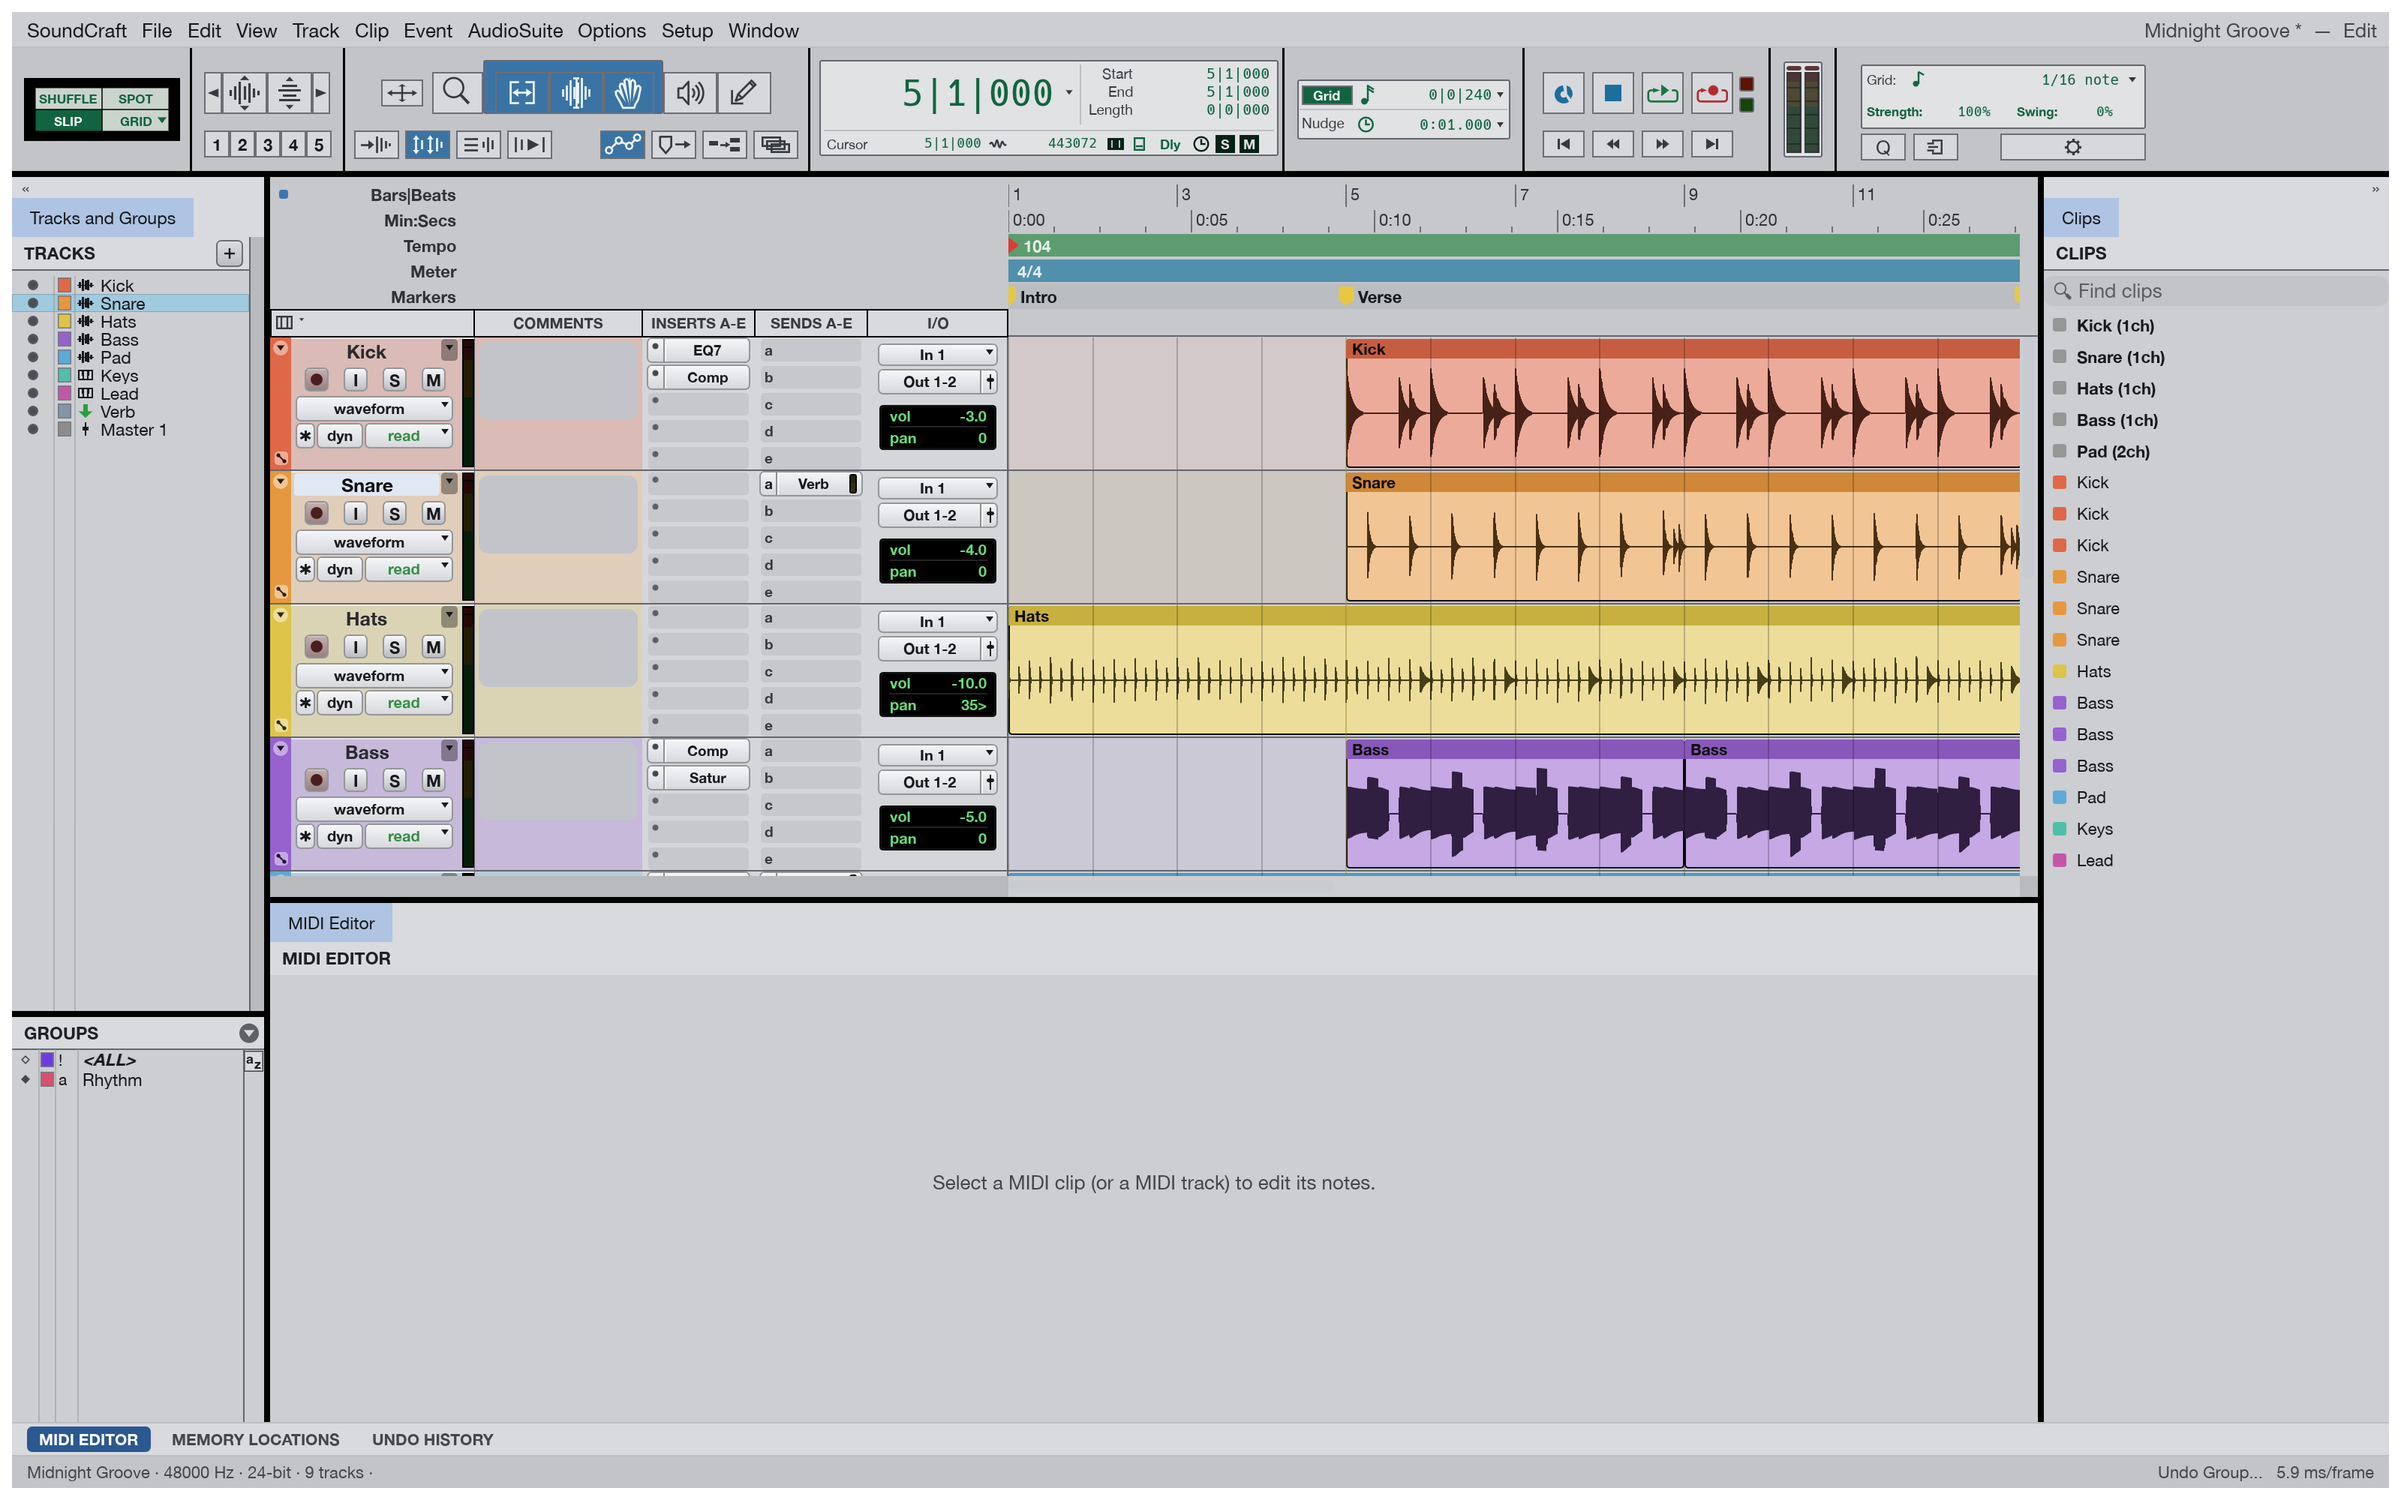
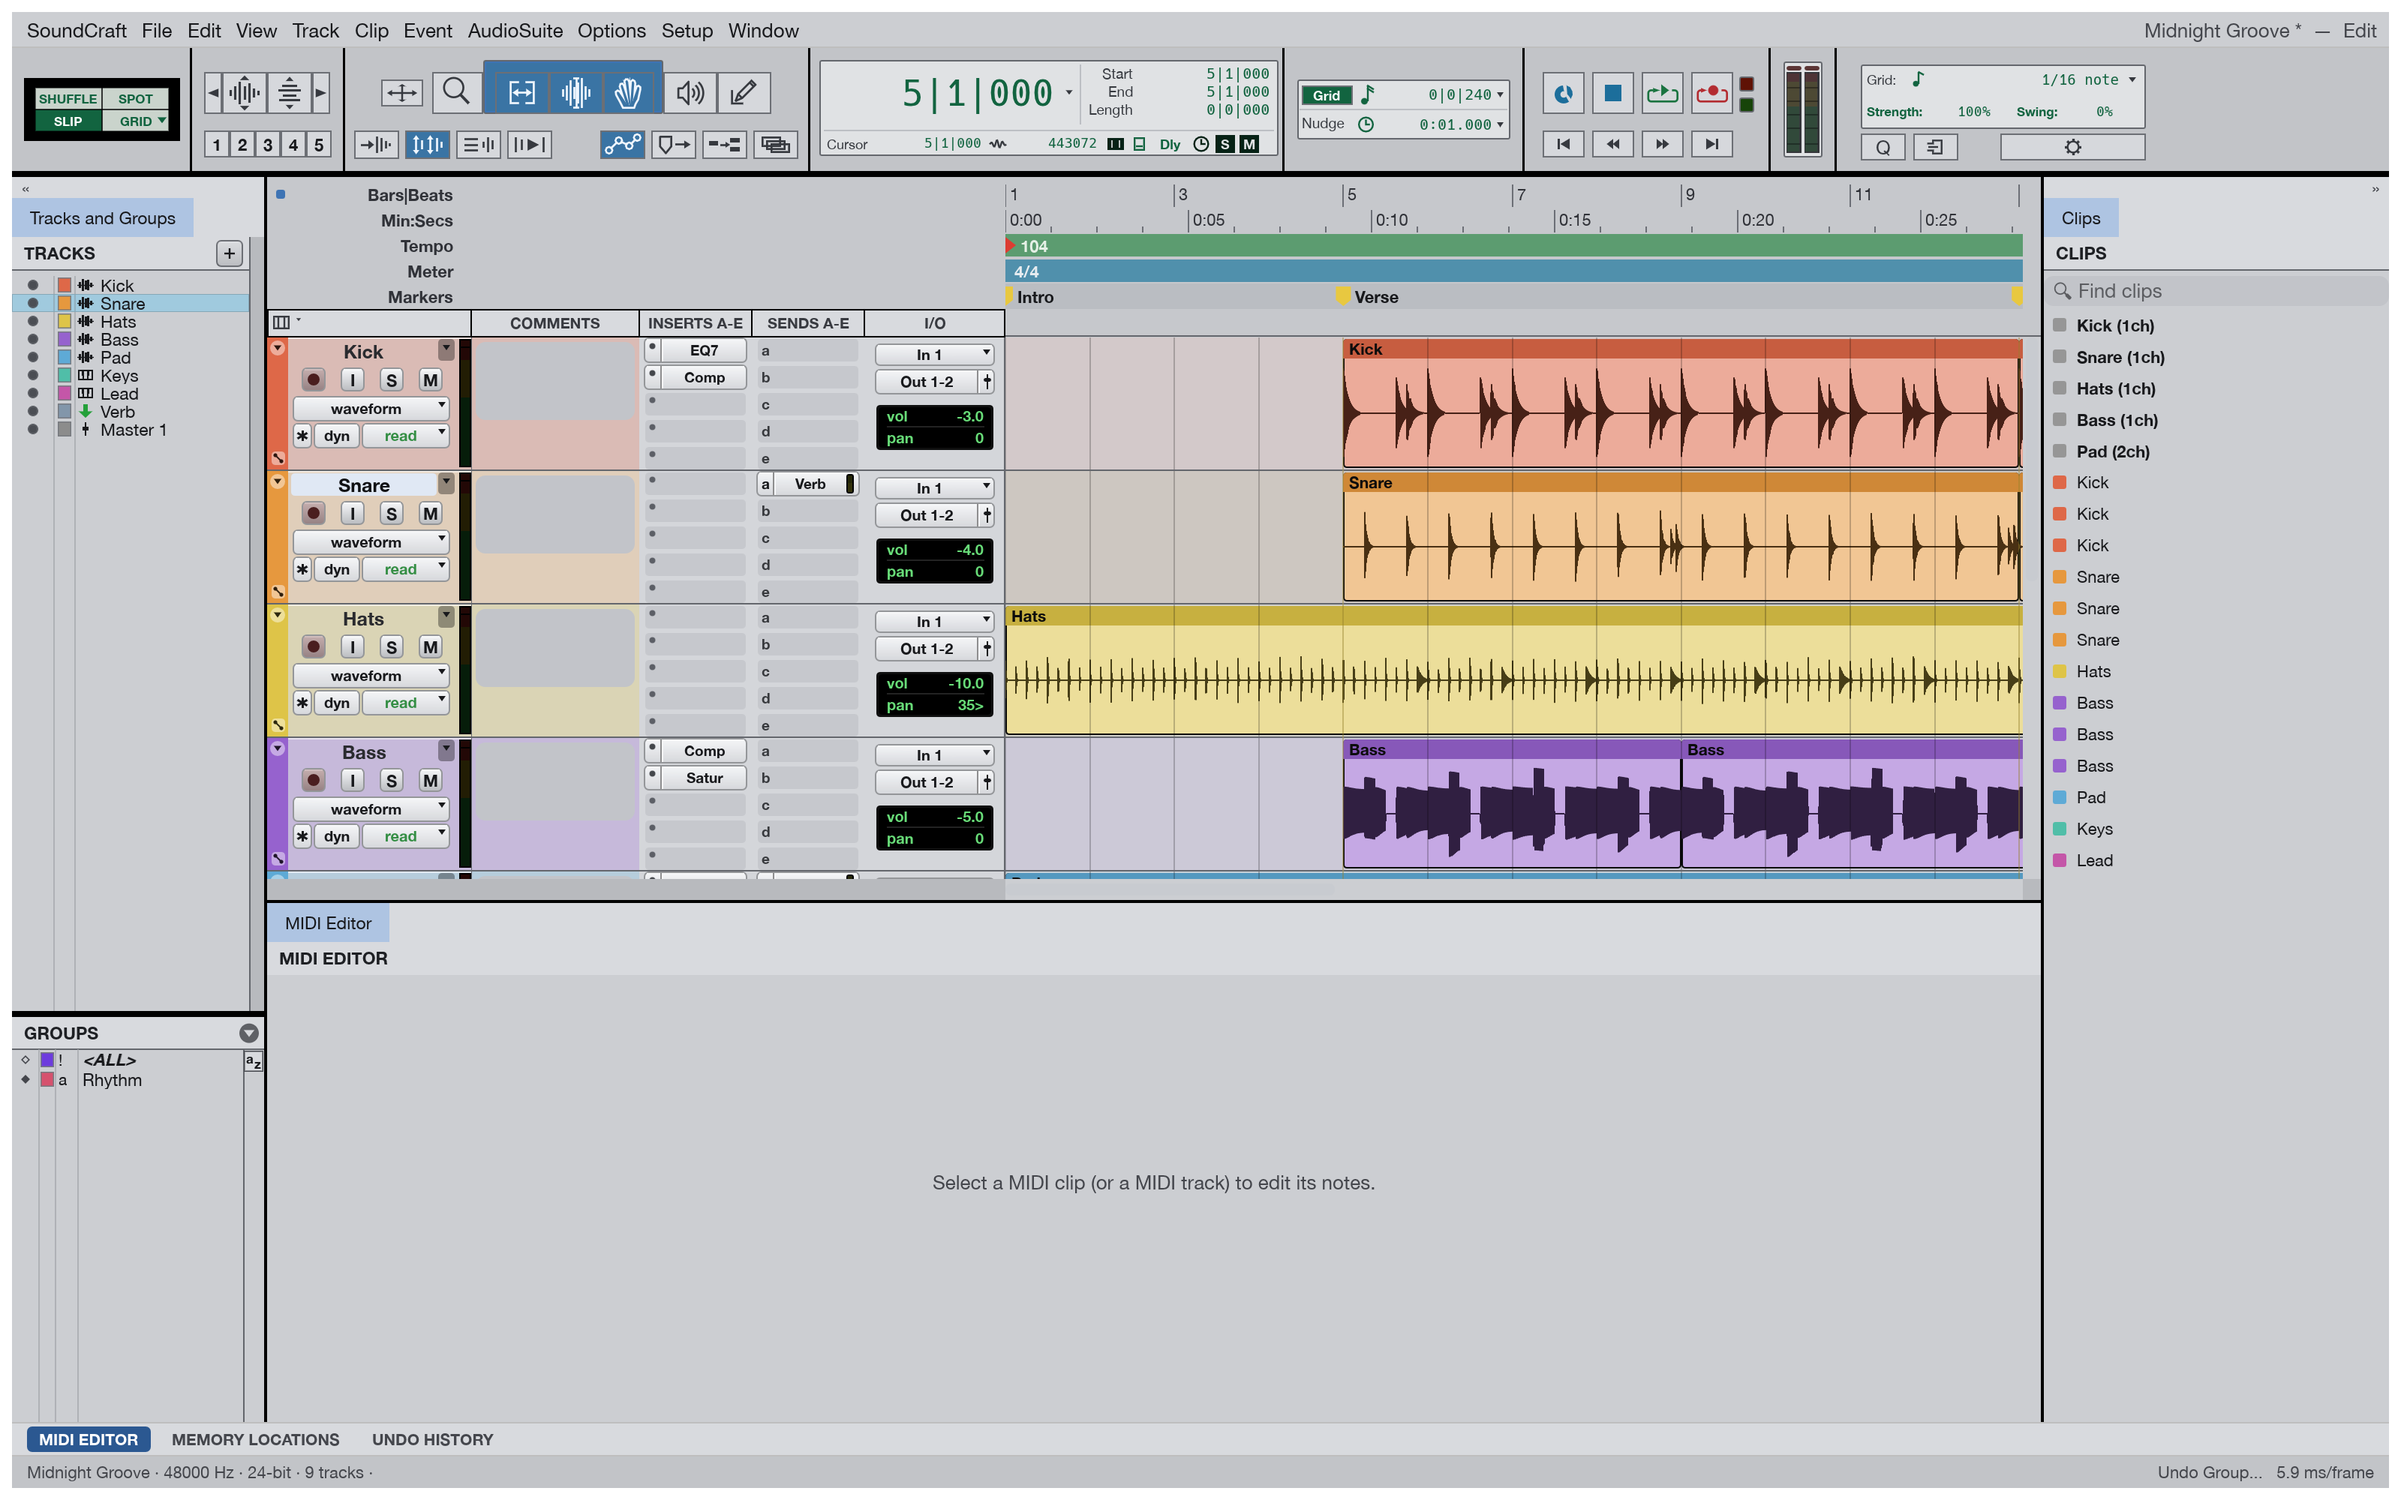
Slim dock seams beside the Edit rulers

diff --git a/crates/ui-egui/src/theme.rs b/crates/ui-egui/src/theme.rs
@@ -3,8 +3,11 @@
 use egui::{Color32, FontFamily, FontId};
 use std::sync::atomic::{AtomicBool, Ordering};
 
-/// Standard separation between Edit/Mix panels, in logical points.
+/// Separation between major horizontal Edit sections, in logical points.
 pub(crate) const PANEL_GAP: f32 = 4.0;
+
+/// Narrow seams between dock panes; major horizontal sections use [`PANEL_GAP`].
+pub(crate) const DOCK_GAP: f32 = 2.0;
 
 /// Whether the Light palette is active. Dark is the default (the incumbent is dark-only).
 static LIGHT_THEME: AtomicBool = AtomicBool::new(false);

diff --git a/crates/ui-egui/src/docking.rs b/crates/ui-egui/src/docking.rs
@@ -458,7 +458,7 @@ pub fn show(app: &mut crate::SoundApp, ui: &mut egui::Ui, window: crate::MainWin
     }
     cancel_replaced_workspace(app, &before_sync, &workspace, edit);
     let mut style = DockStyle::from_ui(ui);
-    style.gap = crate::theme::PANEL_GAP;
+    style.gap = crate::theme::DOCK_GAP;
     style.min_pane = 96.0;
     style.tab_height = MIDI_TAB_HEIGHT;
     style.background = t.panel_bg;

diff --git a/docs/ui-parity.md b/docs/ui-parity.md
@@ -1,6 +1,6 @@
 # UI parity
 
-> **Last reviewed:** 2026-11-05 · **Last updated:** 2026-11-05 · **Change:** minor (Edit toolbar and panel presentation) · **Target:** Avid Pro Tools Ultimate 2026.4.1
+> **Last reviewed:** 2026-11-05 · **Last updated:** 2026-11-05 · **Change:** trivial (narrow dock seams) · **Target:** Avid Pro Tools Ultimate 2026.4.1
 
 How SoundCraft feels in the hands of a Pro Tools user: tools, modes, modifiers, shortcuts,
 windows, meters. Measured from `crates/model/src/session.rs` (tools, modes), the command
@@ -62,7 +62,7 @@ Legend: ✅ matches · 🟡 partial · ❌ missing.
 | Compact Edit toolbar | ✅ layout; 🟡 full behavior parity | Flat joined tool and zoom keys, four edit modes in a black bezel, action-and-return transport glyphs, main/selection/cursor readouts, independent Grid/Nudge values and stereo output. Quantize Grid/Strength/Swing and Input Quantize dispatch `event.input_quantize`; Q applies the displayed values through `event.quantize`. Tempo/Meter/Count Off are available from View › Transport › MIDI Controls and the toolbar gear menu. Existing time-scale menus and narrow-window scrolling are retained. All glyphs are original procedural artwork |
 | Edit column titles | ✅ | Comments precedes Instruments, Inserts, Sends and I/O in captions and per-track controls. Flat faces share one-point black gaps on every edge; an accessible procedural Views selector preserves column visibility controls |
 | Tracks and Groups presentation | ✅ layout; 🟡 full behavior parity | Compact contiguous rows align visibility/status, color, type/ID and names. Selected tracks fill every column in blue; all track kinds have original symbols. Groups includes an italic purple `<ALL>` row, options menu and command-backed keyboard-focus control; per-letter shortcuts remain partial. Selection, visibility, activation, reordering and gutter scrolling retain existing commands |
-| Panel separation | ✅ | Four-point black gaps separate toolbar/body, Tracks/Groups and dock panels. Full-height toolbar columns use 1.5-point gaps. Counter, Grid/Nudge, quantize and output wells have no gray outer rim; Grid/Nudge and output wells are centered. Dock and gutter edge strokes do not double the shared gap, in both themes |
+| Panel separation | ✅ | Two-point black seams separate dock panes, including Tracks from the ruler headers and the docked MIDI Editor. Major horizontal sections (toolbar/body and Tracks/Groups) keep four-point gaps; full-height toolbar columns use 1.5-point gaps. Counter, Grid/Nudge, quantize and output wells have no gray outer rim; Grid/Nudge and output wells are centered. Dock and gutter edge strokes do not double the seams, in both themes |
 | macOS title alignment and dialog movement | ✅ | Public AppKit accessories center the Edit/Mix main-window title while retaining the actual title for accessibility. Shared forms, recovery and the web update notice start centered and can be moved by their title bars without changing form or session state |
 | Dark theme close to Pro Tools' | ✅ | Light theme (#32) and live system appearance (#85) beyond Pro Tools |
 | Interface scaling | 🟡 | Slider in PR #147 |
@@ -75,6 +75,7 @@ Legend: ✅ matches · 🟡 partial · ❌ missing.
 
 | Date | Change | Summary |
 |---|---|---|
+| 2026-11-05 | trivial | Narrow dock seams from four to two points, including the vertical divider before the ruler headers; keep the four-point toolbar/body and Tracks/Groups section gaps. Readiness estimates unchanged |
 | 2026-11-05 | minor | Refine the two-row Edit toolbar, original procedural glyphs, Comments-first column titles, compact Tracks/Groups, centered macOS titles and draggable forms. Share four-point black panel gaps without doubled dock edges; keep readiness estimates unchanged |
 | 2026-10-25 | minor | Zoom Toggle row: Alt+Shift+E and Alt-click cancel Zoom Toggle and keep the view. Readiness estimate unchanged |
 | 2026-10-25 | minor | Edit and Mix windows: Tracks and Groups and Clips in full-height dock columns. Readiness estimate unchanged |

diff --git a/docs/gaps.md b/docs/gaps.md
@@ -1,6 +1,6 @@
 # Where SoundCraft falls short of Pro Tools
 
-> **Last reviewed:** 2026-11-05 · **Last updated:** 2026-11-05 · **Change:** minor (Edit toolbar and panel presentation) · **Target:** Avid Pro Tools Ultimate 2026.4.1
+> **Last reviewed:** 2026-11-05 · **Last updated:** 2026-11-05 · **Change:** trivial (narrow dock seams) · **Target:** Avid Pro Tools Ultimate 2026.4.1
 
 Every known shortfall, one entry each, ranked by how much it stops a Pro Tools user from doing
 real work in SoundCraft. This is the work list: pick from the top. Rows marked **alpha blocker**
@@ -209,7 +209,9 @@ settings command only. Needs an openly licensed local speech model. ≈ 30–50 
 
 ### G-19. UI feel
 
-**Done (2026-11-05):** The Edit toolbar uses aligned two-row controls, flat joined keys, original procedural glyphs and black readout wells. Quantize and optional MIDI transport controls dispatch existing commands. Edit columns place Comments first and share equal black header gaps. Tracks/Groups use compact column layouts with accessible controls and retained selection, reordering, visibility, activation and scroll behavior. Shared four-point black panel gaps remove doubled dock/gutter borders; toolbar dividers span the full height at 1.5 points, with Grid/Nudge and output wells centered. Main-window titles center on macOS; shared forms and recovery can be dragged from their initial centered position. These presentation improvements do not close the remaining UI/UX behavior gaps or change the readiness estimate.
+**Done (2026-11-05):** Dock seams are narrowed from four to two logical points in Edit and Mix, including the vertical divider before Bars/Beats, Min/Secs, Tempo, Meter and Markers and the docked MIDI Editor. Major horizontal toolbar/body and Tracks/Groups gaps stay four points. Dock resizing and interaction behavior are retained; readiness estimates are unchanged.
+
+**Done (2026-11-05):** The Edit toolbar uses aligned two-row controls, flat joined keys, original procedural glyphs and black readout wells. Quantize and optional MIDI transport controls dispatch existing commands. Edit columns place Comments first and share equal black header gaps. Tracks/Groups use compact column layouts with accessible controls and retained selection, reordering, visibility, activation and scroll behavior. Four-point black section gaps and two-point dock seams avoid doubled dock/gutter borders; toolbar dividers span the full height at 1.5 points, with Grid/Nudge and output wells centered. Main-window titles center on macOS; shared forms and recovery can be dragged from their initial centered position. These presentation improvements do not close the remaining UI/UX behavior gaps or change the readiness estimate.
 
 See [`ui-parity.md`](ui-parity.md). ≈ 60–100 h.
 
@@ -232,6 +234,7 @@ missing. Out of scope unless the owner decides otherwise.
 
 | Date | Change | Summary |
 |---|---|---|
+| 2026-11-05 | trivial | Narrow dock seams from four to two points, including the vertical divider before the ruler headers; keep the four-point toolbar/body and Tracks/Groups section gaps. Readiness estimates unchanged |
 | 2026-11-05 | minor | Refine the two-row Edit toolbar, original procedural glyphs, Comments-first column titles, compact Tracks/Groups, centered macOS titles and draggable forms. Share four-point black panel gaps without doubled dock edges; keep readiness estimates unchanged |
 | 2026-10-25 | trivial | G-04: Clip Looping (#1030) lacks the loop crossfade option, and Number of Loops stops at 512 while length and fill make up to 1000 loops |
 | 2026-10-25 | trivial | G-01: `setup.playback_engine` and `setup.hardware` apply the device and buffer in the desktop app; headless returns `applied: false` |
